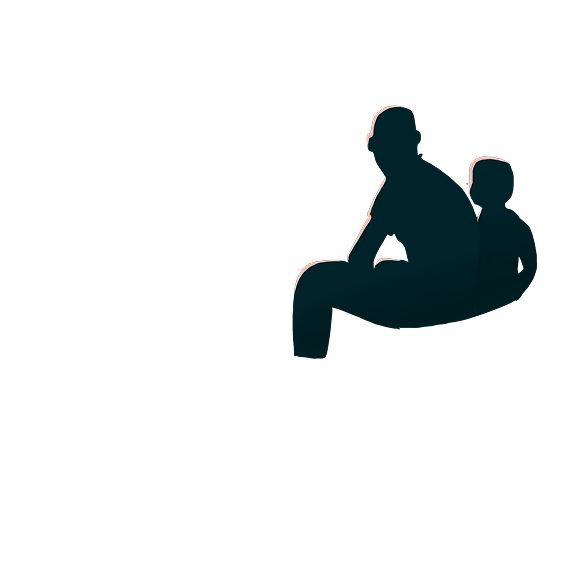
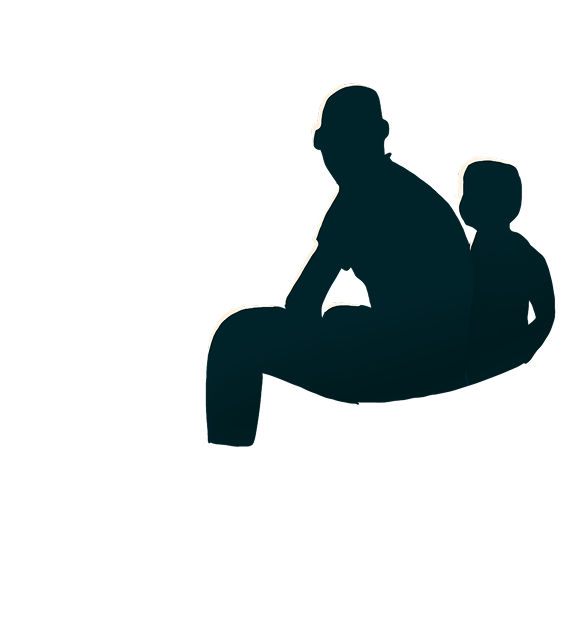
continue ceasfire section

Changed region(s): [[0.3566, 0.1185, 0.9213, 0.7108], [0.5647, 0.385, 0.9808, 0.6516]]

diff --git a/style.css b/style.css
@@ -594,21 +594,14 @@ background: linear-gradient(180deg,rgba(106, 2, 1, 0) 0%, rgba(106, 2, 1, 1) 28%
 
 
 /* Z-order */
-.smoke {
-   z-index: 0; 
-    width: 50%;
-    right: 200px;
-    bottom: 250px;
-    opacity: 0.4;
-  }
+
+
 
   .smoke-bottom {
     position: absolute;
-    bottom: 200px;
-    left: 0;
+    bottom: 250px;
     width: 100%;
-    height: 40vh;
-    background: linear-gradient(to bottom, rgba(254, 244, 234, 0) 0%, #fef4ea 70%, rgba(254, 244, 234, 0) 100%);
+    opacity: 1;
     z-index: 1;
 }
 
@@ -622,7 +615,7 @@ background: linear-gradient(180deg,rgba(106, 2, 1, 0) 0%, rgba(106, 2, 1, 1) 28%
 
 .sky  { z-index: 3; bottom: 8%; }
 .city { z-index: 1; bottom: 10%; }
-.people { z-index: 4; bottom: 10%; width: 80%; right: 100px; }
+.people { z-index: 4; bottom: 13%; width: 80%; right: 20px; }
 .rock { z-index: 5; bottom: 10%; }
 
 /* place flares in different starting X positions */
@@ -978,6 +971,14 @@ body {
   top: 0;
 }
 
+  .smoke-bottom {
+    position: absolute;
+    bottom: 60px;
+    width: 100%;
+    opacity: 0.7;
+    z-index: 1;
+}
+
 .sky  {
   bottom: -50px;
 }
@@ -987,9 +988,9 @@ body {
 }
 
 .people { 
-  bottom: 0;
+  bottom: 50px;
   width: 80%;
-  right: 100px; 
+  right: 0px;
 }
 
 .rock {

diff --git a/index.html b/index.html
@@ -300,7 +300,7 @@
     <img src="img/flair-2.png" class="flair-layer flare" data-speed="0.25" alt="Flare 2" />
     <img src="img/flair-3.png" class="flair-layer flare" data-speed="0.18" alt="Flare 3" />
     </div>
-      <div class="smoke-bottom"></div>
+     <img src="img/smoke.png" class="smoke-bottom" alt="City-smoke" />
     <img src="img/dark-city.png" class="change-mobile flair-layer city" alt="City silhouette" />
     <img src="img/red-smoke.png" class="change-mobile flair-layer sky" alt="red sky background" />
     <img src="img/people-sit.png" class="change-mobile flair-layer people" alt="red sky background" />

diff --git a/effect.js b/effect.js
@@ -263,7 +263,7 @@ window.addEventListener("scroll", () => {
  // === City rises (background) ===
     const cityLift = -progress * 20; // moves upward as you scroll
     city.style.transform = `translateY(${cityLift}px)`;
-    city.style.opacity = Math.min(progress * 1.4, 1);
+    // city.style.opacity = Math.min(progress * 1.4, 1);
 
     // === People + rock descend (foreground) ===
     const foregroundMove = progress * 40; // move downward
